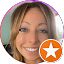
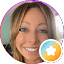
Improve accessibility: ARIA, contrast, captions, and menu state
- Fix menu checkbox (remove aria-hidden conflict), logo alts, SocialProofPill
  and sticky CTA accessible names; add role attributes on review cards.
- Darken brand orange token for WCAG contrast on CTAs; align decorative glows.
- Add WebVTT captions for Erica testimonial and wire captionsUrl from curated data.
- Sync aria-expanded on mobile menu toggle with checkbox state.
- Include accessibility notes and synced review data from build.

Made-with: Cursor

Changed region(s): [[0.625, 0.625, 0.9688, 0.9688]]

diff --git a/src/styles/global.css b/src/styles/global.css
@@ -27,7 +27,8 @@
   --color-accent-muted: #5EEAD4;
   --color-accent-dark: #0F766E;
 
-  --color-brand-orange: #E85A07;
+  /* Slightly deeper than legacy #E85A07 so white UI text meets ~4.5:1 on filled CTAs */
+  --color-brand-orange: #c14e0a;
   --color-brand-dark: #262626;
   --color-brand-wood: #4a3728;
 
@@ -63,13 +64,13 @@
 
 /* Brand gradient text (CSS only); padding prevents clip from cutting off K's and other glyphs */
 .brand-text-gradient {
-  color: #E85A07;
+  color: #c14e0a;
   padding-right: 2px;
   display: inline-block;
 }
 @supports (background-clip: text) or (-webkit-background-clip: text) {
   .brand-text-gradient {
-    background: linear-gradient(135deg, #E85A07 0%, #c2410c 100%);
+    background: linear-gradient(135deg, #c14e0a 0%, #9a3412 100%);
     -webkit-background-clip: text;
     background-clip: text;
     -webkit-text-fill-color: transparent;
@@ -95,13 +96,13 @@
     box-shadow:
       0 4px 6px -1px rgb(0 0 0 / 0.12),
       0 2px 4px -2px rgb(0 0 0 / 0.08),
-      0 0 0 0 rgb(232 90 7 / 0.35);
+      0 0 0 0 rgb(193 78 10 / 0.35);
   }
   55% {
     box-shadow:
       0 4px 6px -1px rgb(0 0 0 / 0.12),
       0 2px 4px -2px rgb(0 0 0 / 0.08),
-      0 0 0 10px rgb(232 90 7 / 0);
+      0 0 0 10px rgb(193 78 10 / 0);
   }
 }
 

diff --git a/accessibility.md b/accessibility.md
@@ -1,0 +1,27 @@
+Based on the Lighthouse report for **deckmastersak.com**, there are several "low-hanging fruit" opportunities to improve the accessibility score from 90 toward 100. 
+
+The primary issues involve **ARIA attributes** and **color contrast**, which are often simple code fixes.
+
+### 1. High-Impact Technical Fixes (Failed Audits)
+* [cite_start]**Fix Focusable Elements in Hidden Containers:** * **The Issue:** An input element (`input#menu-toggle`) is marked with `aria-hidden="true"` but remains focusable[cite: 2360, 2363].
+    * **The Fix:** When an element is hidden from screen readers using `aria-hidden`, it should not be reachable via the keyboard. [cite_start]Either add `tabindex="-1"` to the input or use `display: none` when it is not in use[cite: 2366].
+* [cite_start]**Remove Prohibited ARIA Attributes:** * **The Issue:** There are 30 instances where a `<div>` uses an `aria-label` (labeled "Project photos") without having a valid ARIA role[cite: 2373, 2378, 2494].
+    * **The Fix:** `aria-label` should generally only be used on interactive elements (links, buttons) or elements with specific roles (like `role="region"`). [cite_start]Remove these labels or change the `div` to a more semantic element[cite: 2378].
+
+### 2. User Experience & Design Improvements
+* [cite_start]**Improve Color Contrast:** * **The Issue:** Several text elements fail the minimum contrast ratio of 4.5:1[cite: 2521].
+    * [cite_start]**Specific Culprits:** * "CALL US" text (Ratio 2.33:1)[cite: 2526].
+        * [cite_start]"GET MY FREE ESTIMATE" buttons (Ratio 3.3:1)[cite: 2537, 2541].
+        * [cite_start]Various section headings and review attributions[cite: 2551, 2561, 2571].
+    * [cite_start]**The Fix:** Darken the brand orange (#e85a07) and the neutral gray (#a8a29e) against their respective backgrounds to meet accessibility standards[cite: 2527, 2537].
+* **Fix Accessible Name Mismatches:**
+    * [cite_start]**The Issue:** The Google Review link has a visible label ("4.9 · 153 Google Reviews") that does not match its programmatic `aria-label`[cite: 2770, 2775].
+    * [cite_start]**The Fix:** Ensure the `aria-label` includes the exact visible text to assist users using voice-control software[cite: 2776].
+
+### 3. Media & Content
+* **Add Video Captions:**
+    * [cite_start]**The Issue:** The testimonial video (`erica-leman.mp4`) lacks a `<track>` element for captions[cite: 2813, 2816].
+    * [cite_start]**The Fix:** Provide a `.vtt` caption file to ensure the content is accessible to deaf or hard-of-hearing users[cite: 2814].
+* **Remove Redundant Alt Text:**
+    * [cite_start]**The Issue:** The logo image has alt text ("DeckMasters") that duplicates the adjacent text[cite: 2759, 2765]. 
+    * [cite_start]**The Fix:** Simplify the alt text or mark the image as decorative if the information is already provided by nearby text[cite: 2766].
